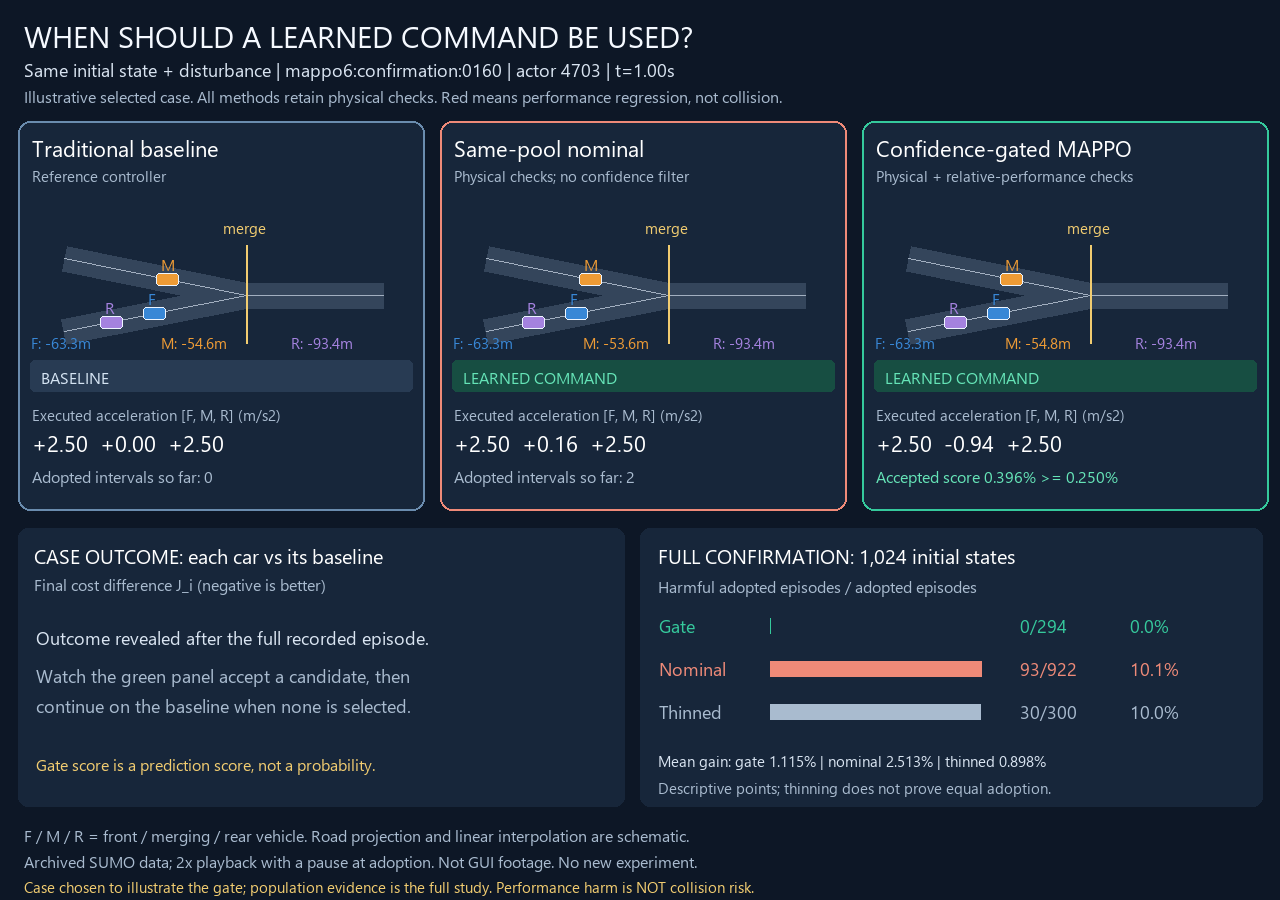
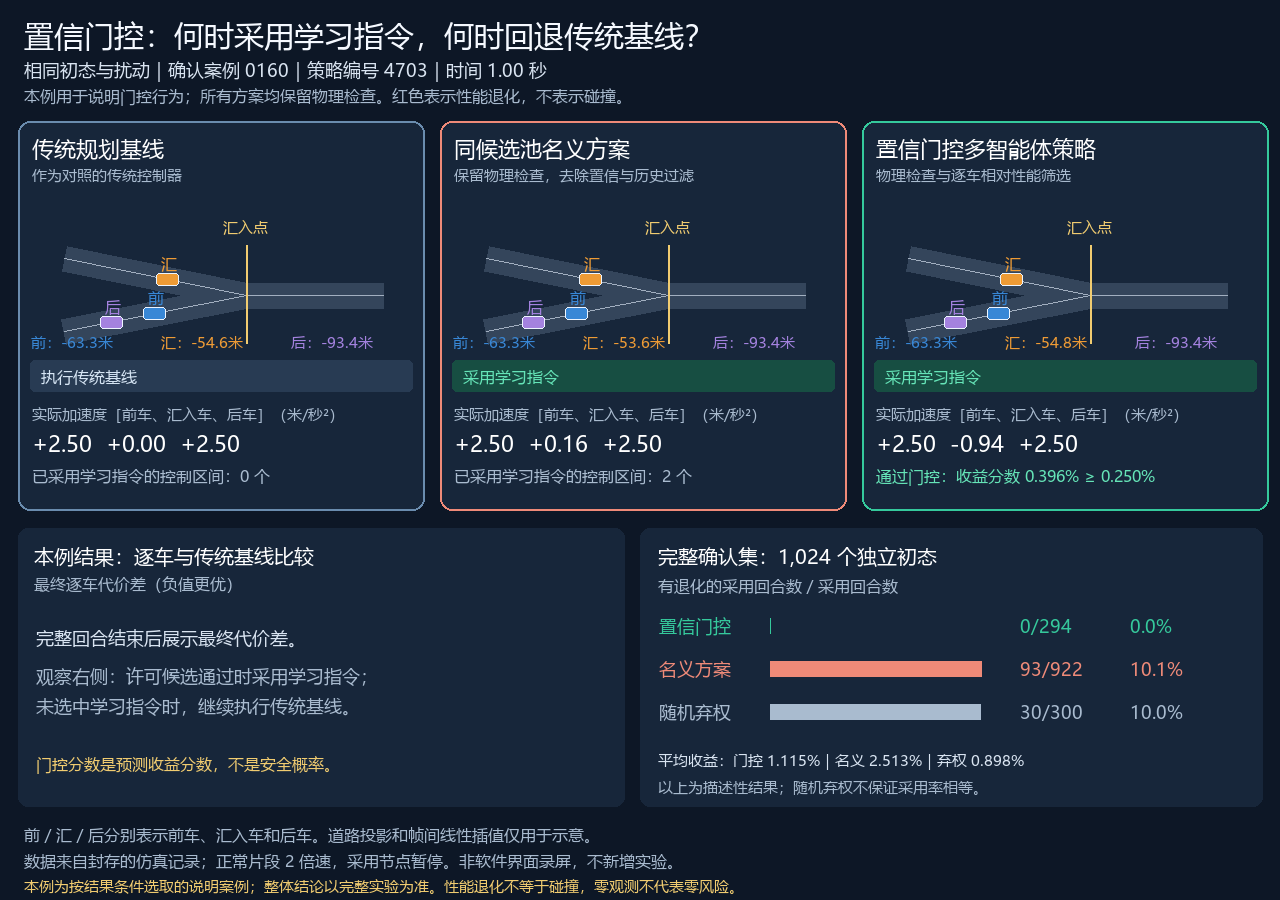
Localize confidence-gate animation and figures into Chinese

diff --git a/tools/render_gate_comparison.py b/tools/render_gate_comparison.py
@@ -19,18 +19,19 @@ def sha(p):return hashlib.sha256(p.read_bytes()).hexdigest()
 
 
 def font(size):
-    for name in ['DejaVuSans.ttf','C:/Windows/Fonts/segoeui.ttf']:
+    for name in ['C:/Windows/Fonts/msyh.ttc',
+                 '/usr/share/fonts/opentype/noto/NotoSansCJK-Regular.ttc',
+                 '/usr/share/fonts/truetype/wqy/wqy-microhei.ttc']:
         try:return ImageFont.truetype(name,size)
         except OSError:pass
-    try:return ImageFont.load_default(size=size)
-    except TypeError:return ImageFont.load_default()
+    raise RuntimeError('中文渲染需要微软雅黑、Noto Sans CJK 或文泉驿微米黑字体')
 
 
 def render(source,out,stats):
     out.mkdir(parents=True,exist_ok=False)
     case=json.loads(source.read_bytes());full=json.loads(stats.read_bytes())
-    methods=['baseline','nominal_4703','4703'];titles=['Traditional baseline','Same-pool nominal','Confidence-gated MAPPO']
-    notes=['Reference controller','Physical checks; no confidence filter','Physical + relative-performance checks']
+    methods=['baseline','nominal_4703','4703'];titles=['传统规划基线','同候选池名义方案','置信门控多智能体策略']
+    notes=['作为对照的传统控制器','保留物理检查，去除置信与历史过滤','物理检查与逐车相对性能筛选']
     records=case['methods'];base=records['baseline']['row'];n=max(len(records[m]['trace']) for m in methods)
     assert all(records[m]['row']['initial']==case['initial'] for m in methods)
     assert all(records[m]['row'][key]==base[key] for m in methods for key in
@@ -40,14 +41,17 @@ def render(source,out,stats):
     def harmful(row):return any(row['per_vehicle_cost'][i]>base['per_vehicle_cost'][i]+1e-9 or row['per_vehicle_finish'][i]>base['per_vehicle_finish'][i]+1e-9 for i in range(3))
     assert harmful(records['nominal_4703']['row']) and not harmful(records['4703']['row'])
     f={s:font(s) for s in [15,16,18,20,22,26,30]};frames=[];durations=[];poster=None;final=None
-    def txt(d,xy,text,size=18,color='#d9e4f1'):d.text(xy,text,font=f[size],fill=color)
+    def txt(d,xy,text,size=18,color='#d9e4f1'):
+        box=d.textbbox(xy,text,font=f[size])
+        if box[2]>1272 or box[3]>899:raise ValueError('文字超出画面边界：'+text)
+        d.text(xy,text,font=f[size],fill=color)
     for k in range(n):
         for sub in range(1,5):
             frac=sub/4;time=(k+frac)*.5;done=k==n-1 and sub==4
             im=Image.new('RGB',(1280,900),'#0d1726');d=ImageDraw.Draw(im)
-            txt(d,(24,15),'WHEN SHOULD A LEARNED COMMAND BE USED?',30,'#f5f9ff')
-            txt(d,(24,57),f"Same initial state + disturbance | {case['case_id']} | actor 4703 | t={time:4.2f}s",18)
-            txt(d,(24,85),'Illustrative selected case. All methods retain physical checks. Red means performance regression, not collision.',16,'#a9bbcf')
+            txt(d,(24,15),'置信门控：何时采用学习指令，何时回退传统基线？',30,'#f5f9ff')
+            txt(d,(24,57),f"相同初态与扰动｜确认案例 {case['case_id'].rsplit(':',1)[-1]}｜策略编号 4703｜时间 {time:4.2f} 秒",18)
+            txt(d,(24,85),'本例用于说明门控行为；所有方案均保留物理检查。红色表示性能退化，不表示碰撞。',16,'#a9bbcf')
             adopted_now=False
             for column,m in enumerate(methods):
                 x=18+column*422;y=121;record=records[m];trace=record['trace'];finished=k>=len(trace) or (k==len(trace)-1 and sub==4)
@@ -64,29 +68,29 @@ def render(source,out,stats):
                 for role in [0,1]:d.line([point(-125,role),merge,point(95,role)],fill='#34455b',width=26)
                 for role in [0,1]:d.line([point(-125,role),merge,point(95,role)],fill='#a2afc0',width=1)
                 d.line((merge[0],y+124,merge[0],y+222),fill='#f1cc70',width=2)
-                txt(d,(merge[0]-23,y+96),'merge',15,'#f1cc70')
+                txt(d,(merge[0]-23,y+96),'汇入点',15,'#f1cc70')
                 for i,(s,v) in enumerate(positions):
                     if -125<=s<=95:
                         xx,yy=point(s,i)
                         d.rounded_rectangle((xx-11,yy-6,xx+11,yy+6),radius=3,fill=COLORS[i],outline='#edf5ff')
-                        txt(d,(xx-6,yy-26),['F','M','R'][i],16,COLORS[i])
-                    txt(d,(x+13+i*130,y+211),f"{['F','M','R'][i]}: {s:+.1f}m",15,COLORS[i])
-                state='COMPLETE (last recorded state)' if finished else ('LEARNED COMMAND' if used else ('BASELINE' if m=='baseline' else 'BASELINE / FALLBACK'))
+                        txt(d,(xx-6,yy-26),['前','汇','后'][i],16,COLORS[i])
+                    txt(d,(x+13+i*130,y+211),f"{['前','汇','后'][i]}：{s:+.1f}米",15,COLORS[i])
+                state='回合结束（保留最后记录）' if finished else ('采用学习指令' if used else ('执行传统基线' if m=='baseline' else '回退传统基线'))
                 d.rounded_rectangle((x+12,y+239,x+394,y+270),radius=5,fill='#174e42' if used else '#283b53')
                 txt(d,(x+23,y+245),state,16,'#65e4b7' if used else '#d5e4f3')
-                txt(d,(x+14,y+283),'Executed acceleration [F, M, R] (m/s2)',15,'#a9bbcf')
+                txt(d,(x+14,y+283),'实际加速度［前车、汇入车、后车］（米/秒²）',15,'#a9bbcf')
                 txt(d,(x+14,y+307),'  '.join(f'{value:+5.2f}' for value in cur['command']),22,'#ffffff')
                 if m=='4703':
                     score=cur.get('selected_gain_confidence_score')
-                    scoretext=('Episode ended; last recorded command shown' if finished else
-                        (f'Accepted score {100*score:.3f}% >= 0.250%' if score is not None and used else 'No learned command selected; use baseline'))
+                    scoretext=('回合已结束，显示最后一条指令' if finished else
+                        (f'通过门控：收益分数 {100*score:.3f}% ≥ 0.250%' if score is not None and used else '未选中学习指令，执行基线'))
                     txt(d,(x+14,y+344),scoretext,16,'#65e4b7' if used else '#a9bbcf')
-                else:txt(d,(x+14,y+344),f"Adopted intervals so far: {sum(bool(v['actual_learning_used']) for v in trace[:k+1])}",16,'#a9bbcf')
+                else:txt(d,(x+14,y+344),f"已采用学习指令的控制区间：{sum(bool(v['actual_learning_used']) for v in trace[:k+1])} 个",16,'#a9bbcf')
             d.rounded_rectangle((18,528,624,806),radius=10,fill='#17263a')
-            txt(d,(34,542),'CASE OUTCOME: each car vs its baseline',20,'#ffffff')
-            txt(d,(34,573),'Final cost difference J_i (negative is better)',16,'#a9bbcf')
+            txt(d,(34,542),'本例结果：逐车与传统基线比较',20,'#ffffff')
+            txt(d,(34,573),'最终逐车代价差（负值更优）',16,'#a9bbcf')
             if done:
-                for i,label in enumerate(['Front','Merge','Rear']):
+                for i,label in enumerate(['前车','汇入车','后车']):
                     yy=610+i*46;txt(d,(36,yy),label,18,COLORS[i]);zero=360
                     d.line((zero,yy-2,zero,yy+35),fill='#a9bbcf',width=1)
                     for m,color,dy in [('nominal_4703','#ef8a78',0),('4703','#35c99c',19)]:
@@ -96,27 +100,27 @@ def render(source,out,stats):
                         txt(d,(470,yy+dy-4),f'{delta:+.4f}',15,color)
                 dn=records['nominal_4703']['row']['per_vehicle_cost'][1]-base['per_vehicle_cost'][1]
                 dg=records['4703']['row']['per_vehicle_cost'][1]-base['per_vehicle_cost'][1]
-                txt(d,(34,755),f'Merge-car cost: nominal {dn:+.4f} | gate {dg:+.4f}',16,'#ffffff')
-                txt(d,(34,779),'J = arrival time + 0.05 x executed-command variation',15,'#a9bbcf')
+                txt(d,(34,755),f'汇入车代价差：名义 {dn:+.4f}｜门控 {dg:+.4f}',16,'#ffffff')
+                txt(d,(34,779),'代价＝到达时间＋0.05×实际指令总变化量',15,'#a9bbcf')
             else:
-                txt(d,(36,625),'Outcome revealed after the full recorded episode.',18)
-                txt(d,(36,663),'Watch the green panel accept a candidate, then',18,'#a9bbcf')
-                txt(d,(36,693),'continue on the baseline when none is selected.',18,'#a9bbcf')
-                txt(d,(36,753),'Gate score is a prediction score, not a probability.',16,'#f1cc70')
+                txt(d,(36,625),'完整回合结束后展示最终代价差。',18)
+                txt(d,(36,663),'观察右侧：许可候选通过时采用学习指令；',18,'#a9bbcf')
+                txt(d,(36,693),'未选中学习指令时，继续执行传统基线。',18,'#a9bbcf')
+                txt(d,(36,753),'门控分数是预测收益分数，不是安全概率。',16,'#f1cc70')
             d.rounded_rectangle((640,528,1262,806),radius=10,fill='#17263a')
-            txt(d,(658,542),'FULL CONFIRMATION: 1,024 initial states',20,'#ffffff')
-            txt(d,(658,575),'Harmful adopted episodes / adopted episodes',16,'#a9bbcf')
-            for j,(m,name,color) in enumerate([('4703','Gate','#35c99c'),('nominal_4703','Nominal','#ef8a78'),('thinned_4703','Thinned','#a9bbcf')]):
+            txt(d,(658,542),'完整确认集：1,024 个独立初态',20,'#ffffff')
+            txt(d,(658,575),'有退化的采用回合数／采用回合数',16,'#a9bbcf')
+            for j,(m,name,color) in enumerate([('4703','置信门控','#35c99c'),('nominal_4703','名义方案','#ef8a78'),('thinned_4703','随机弃权','#a9bbcf')]):
                 q=full['confirmation_methods'][m];yy=613+j*43;rate=q['harmful_adopted']/q['adopted']
                 txt(d,(659,yy),name,18,color);d.rectangle((770,yy+5,770+rate*2100,yy+20),fill=color)
                 txt(d,(1020,yy),f"{q['harmful_adopted']}/{q['adopted']}",18,color)
                 txt(d,(1130,yy),f'{100*rate:.1f}%',18,color)
             means=[full['confirmation_methods'][m]['mean_paired_percentage_gain'] for m in ['4703','nominal_4703','thinned_4703']]
-            txt(d,(658,750),f'Mean gain: gate {means[0]:.3f}% | nominal {means[1]:.3f}% | thinned {means[2]:.3f}%',15)
-            txt(d,(658,777),'Descriptive points; thinning does not prove equal adoption.',15,'#a9bbcf')
-            txt(d,(24,824),'F / M / R = front / merging / rear vehicle. Road projection and linear interpolation are schematic.',16,'#a9bbcf')
-            txt(d,(24,850),'Archived SUMO data; 2x playback with a pause at adoption. Not GUI footage. No new experiment.',16,'#a9bbcf')
-            txt(d,(24,876),'Case chosen to illustrate the gate; population evidence is the full study. Performance harm is NOT collision risk.',15,'#f1cc70')
+            txt(d,(658,750),f'平均收益：门控 {means[0]:.3f}%｜名义 {means[1]:.3f}%｜弃权 {means[2]:.3f}%',15)
+            txt(d,(658,777),'以上为描述性结果；随机弃权不保证采用率相等。',15,'#a9bbcf')
+            txt(d,(24,824),'前／汇／后分别表示前车、汇入车和后车。道路投影和帧间线性插值仅用于示意。',16,'#a9bbcf')
+            txt(d,(24,850),'数据来自封存的仿真记录；正常片段 2 倍速，采用节点暂停。非软件界面录屏，不新增实验。',16,'#a9bbcf')
+            txt(d,(24,876),'本例为按结果条件选取的说明案例；整体结论以完整实验为准。性能退化不等于碰撞，零观测不代表零风险。',15,'#f1cc70')
             frames.append(im);durations.append([60,60,60,70][sub-1])
             if adopted_now and sub==4 and poster is None:
                 poster=im.copy();durations[-1]+=1800
@@ -133,7 +137,7 @@ def render(source,out,stats):
     proof=dict(case_id=case['case_id'],selection=case['selection'],new_simulations=0,new_inference=False,
         schematic_road=True,linear_interpolation_for_display_only=True,playback_speed=2,adoption_pause_ms=1800,final_hold_ms=4000,
         source_case_sha256=sha(source),source_statistics=stats.relative_to(ROOT).as_posix(),source_statistics_sha256=sha(stats),
-        renderer_sha256=sha(Path(__file__)),encoded_frames=count,
+        renderer_sha256=sha(Path(__file__)),encoded_frames=count,display_language='zh-CN',
         outputs={n:sha(out/n) for n in ['comparison.gif','comparison.png','adoption.png']})
     (out/'provenance.json').write_text(json.dumps(proof,indent=2)+'\n',encoding='utf-8')
     print(json.dumps(dict(encoded_frames=count,gif_bytes=(out/'comparison.gif').stat().st_size,case=case['case_id'])))

diff --git a/README.md b/README.md
@@ -95,7 +95,7 @@ coopgate smoke --gui
 python tools/mappo_completed_top_two_attempt6.py
 ```
 
-复核器要求原运行依赖版本与登记一致；不匹配时会拒绝，不应修改登记文件绕过检查。动画可直接用公开摘录重建，无需下载完整实验：
+复核器要求原运行依赖版本与登记一致；不匹配时会拒绝，不应修改登记文件绕过检查。中文动画可直接用公开摘录重建，无需下载完整实验；系统需提供微软雅黑、Noto Sans CJK 或文泉驿微米黑字体：
 
 ```bash
 python tools/render_gate_comparison.py --out runs/gate-comparison
